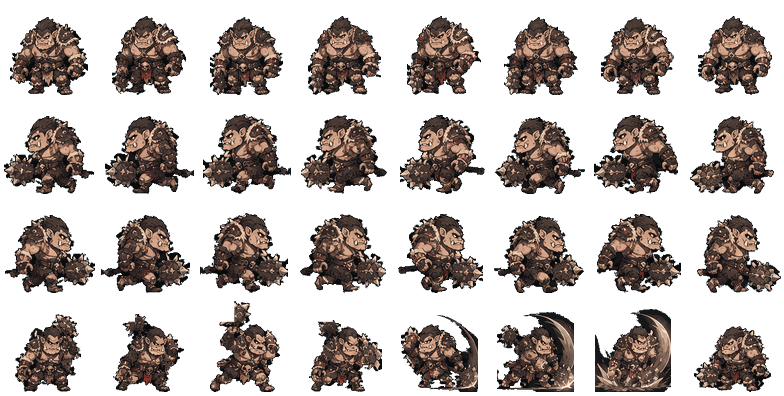
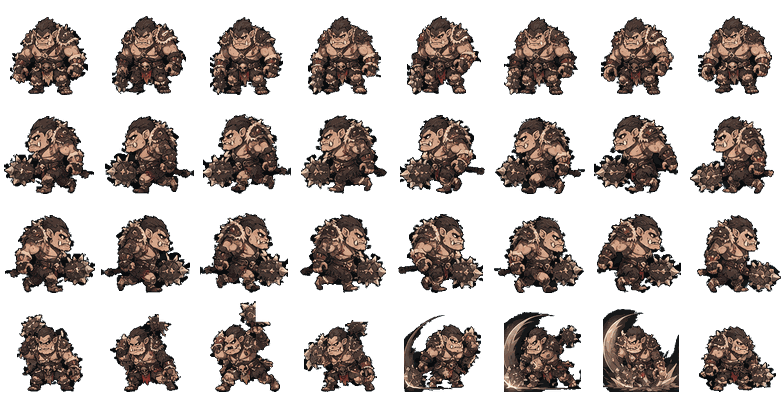
좌우를 눈과 머리로 다시 봐서 적 여덟의 공격 줄을 뒤집는다
앞 커밋의 판단이 틀려 되돌렸다. 참격이 나가는 방향으로 읽었는데, 공격 자세는
몸을 틀어 무기가 대기와 반대 손에 가 있는 시안이 많아 그것만 보면 멀쩡한 줄을
뒤집게 된다. 고블린은 큰 귀를 얼굴로 착각해 정반대로 고쳤었다.

눈과 머리로 다시 보니 **적 여덟이 모두 공격에서 오른쪽을 보고 있었다** — 시안의
공격이 전부 오른쪽으로 그려져 있는데 "적 시안은 뒤집지 않는다"를 그대로 적용해
구웠기 때문이다. 그 규칙은 대기와 걷기(시안이 왼쪽을 본다)에만 맞았다. 여덟의
공격 줄을 뒤집었다.

성기사는 걷기 두 줄이 서로 바뀌어 있었다. 시안의 걷기를 왼쪽으로 잘못 읽고
구웠다 — 궁수에서 한 번 겪은 것과 같은 자리다.

Claude-Session: https://claude.ai/code/session_015YSpsURuUqPhSx5KiHykMJ

Changed region(s): [[0.0, 0.7576, 1.0, 1.0]]

diff --git a/index.html b/index.html
@@ -121,7 +121,7 @@
     <a href="https://github.com/cshlacid/web-games">GitHub</a>
     <!-- 배포 표시. main에 머지할 때마다 올린다 — 규칙은 CLAUDE.md에 있다.
          날짜에 그날의 번호를 붙여, 같은 날 여러 번 올려도 구별된다. -->
-    <span class="deploy">2026-09-09.19</span>
+    <span class="deploy">2026-09-09.20</span>
   </footer>
 </main>
 

diff --git a/games/healer/sprites.js b/games/healer/sprites.js
@@ -78,8 +78,8 @@ const SHEETS = {
     },
     crops: {
       full: { x: 0, y: 0, w: 1, h: 1 },
-      list: { x: 0.09, y: 0.18, w: 0.84, h: 0.80 },
-      head: { x: 0.22, y: 0.19, w: 0.50, h: 0.40 },
+      list: { x: 0.07, y: 0.18, w: 0.84, h: 0.80 },
+      head: { x: 0.28, y: 0.19, w: 0.50, h: 0.40 },
     },
   },
 

diff --git a/games/healer/CLAUDE.md b/games/healer/CLAUDE.md
@@ -1973,21 +1973,27 @@ Lv6 알맞음 75% · Lv6+3 방치 4% · Lv6+3 42% · Lv3+2 46% · Lv8+2 25% · L
 - **적 시안은 뒤집지 않는다.** 아군은 대기와 공격이 오른쪽(적 쪽)을 봐야 해서
   대기 줄을 뒤집는데, 적은 파티를 마주 보므로 왼쪽이 맞는 방향이고 시안이 이미
   그쪽을 본다. 걷기 두 줄은 아군과 같다 — 왼쪽이 원본, 오른쪽이 뒤집은 것.
-- **방향은 자동으로 볼 수 없어 눈으로 본다.** 열일곱 시트의 네 줄을 전부 훑어
-  둘을 찾았다. **고블린**은 대기가 오른쪽을 보고 있었고(적인데 아군 쪽이 아니라
-  등을 보였다) 걷기 두 줄이 서로 바뀌어 있었으며, **오크 주술사**는 공격의 보라
-  마법이 오른쪽으로 나갔다. 나머지 열다섯은 네 줄이 다 맞았다.
-- **판단은 얼굴이 아니라 나가는 것으로 한다.** 대기는 무기를 든 쪽과 머리카락·
-  망토가 흐르는 쪽으로 읽고, 공격은 **참격·마법이 터지는 방향**으로 읽는다 —
-  공격 자세는 몸을 틀어 방패와 검이 대기와 반대 손에 가 있는 시안이 많아
-  (수호자가 그렇다) 손 위치로 보면 멀쩡한 줄을 뒤집게 된다.
+- **그 규칙이 공격 줄에는 안 맞았다.** 열일곱 시트의 네 줄을 전부 훑어 보니
+  **적 여덟이 모두 공격에서 오른쪽을 보고 있었다** — 시안의 공격이 전부 오른쪽으로
+  그려져 있는데 "적 시안은 뒤집지 않는다"를 그대로 적용해 구웠기 때문이다. 대기와
+  걷기는 시안이 왼쪽을 보므로 그 규칙이 맞았고, 공격만 어긋났다. 지금은 여덟의
+  공격 줄을 뒤집어 두었다. **성기사**는 걷기 두 줄이 서로 바뀌어 있었다(시안의
+  걷기를 왼쪽으로 잘못 읽고 구웠다). 나머지는 다 맞았다.
+- **판단은 눈과 머리로 한다.** 참격이 나가는 방향으로 읽으면 틀린다 — 공격 자세는
+  몸을 틀어 무기가 대기와 반대 손에 가 있는 시안이 많아(수호자·마법사·궁수·주인공이
+  그렇다) 참격만 보면 멀쩡한 줄을 뒤집게 된다. **귀·뿔·머리카락·망토는 뒤로
+  뻗으므로 얼굴은 그 반대쪽이다** — 고블린의 큰 귀를 얼굴로 착각해 한 번 정반대로
+  고쳤다가 되돌렸다.
+- **얼굴이 정면인 장은 방향이 없다.** 아군의 대기는 대부분 정면이라(주인공·수호자·
+  전사) 좌우를 따질 것이 없고, 눈동자가 어느 쪽으로 쏠렸는지까지 봐야 갈린다.
+  투구나 후드에 가린 적(오크 주술사의 소머리 해골)은 **걷기 줄과 견줘서** 읽는다 —
+  걷기는 원본과 뒤집은 것이 나란히 있어 어느 쪽이 앞인지가 분명하다.
 - **고칠 때는 인덱스만 옮긴다.** 구운 시트는 256색 팔레트라, RGBA로 열어 다시
   구우면 재양자화가 한 겹 더 걸려 인물 가장자리에 검은 테가 생긴다. 팔레트 모드
   그대로 `paste`를 써도 PIL이 색을 다시 맞추려 들어 그림이 통째로 깨진다 —
   둘 다 실제로 그렇게 나왔다. 인덱스 배열을 직접 옮기면 색이 한 픽셀도 안 바뀐다.
-- **대기 줄을 뒤집으면 자르는 자리도 같이 뒤집는다**(`x` → `1 - (x + w)`).
-  편성 목록과 초상화가 대기 첫 장을 쓰므로, 안 뒤집으면 초상화에 얼굴 대신
-  뒤통수나 어깨가 들어온다.
+- **대기 줄을 뒤집을 때만 자르는 자리도 같이 뒤집는다**(`x` → `1 - (x + w)`).
+  편성 목록과 초상화가 대기 첫 장을 쓰기 때문이고, 걷기·공격 줄은 거기에 안 걸린다.
 - **적 시트의 `box`는 아군과 다른 잣대로 잡는다.** 아군은 서로 키를 맞추면 되지만
   적은 **그 적의 예전 도형과 같은 키**여야 나란히 섰을 때 크기 관계가 안 바뀐다
   (고블린은 도형이 22칸이었고, 칸이 세로로 길어 `box` 30이 그 키다).
